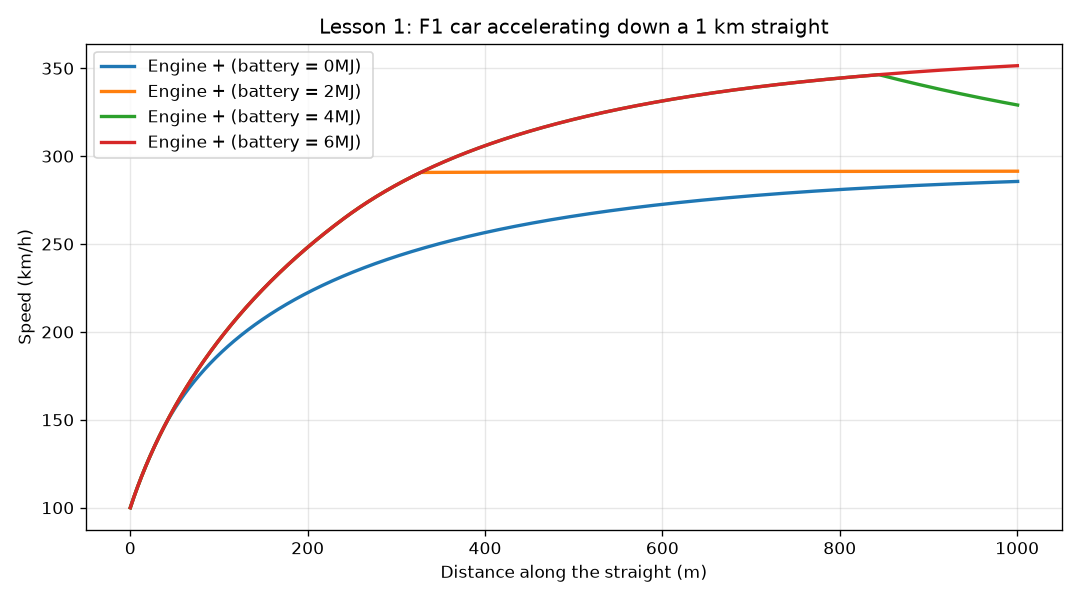
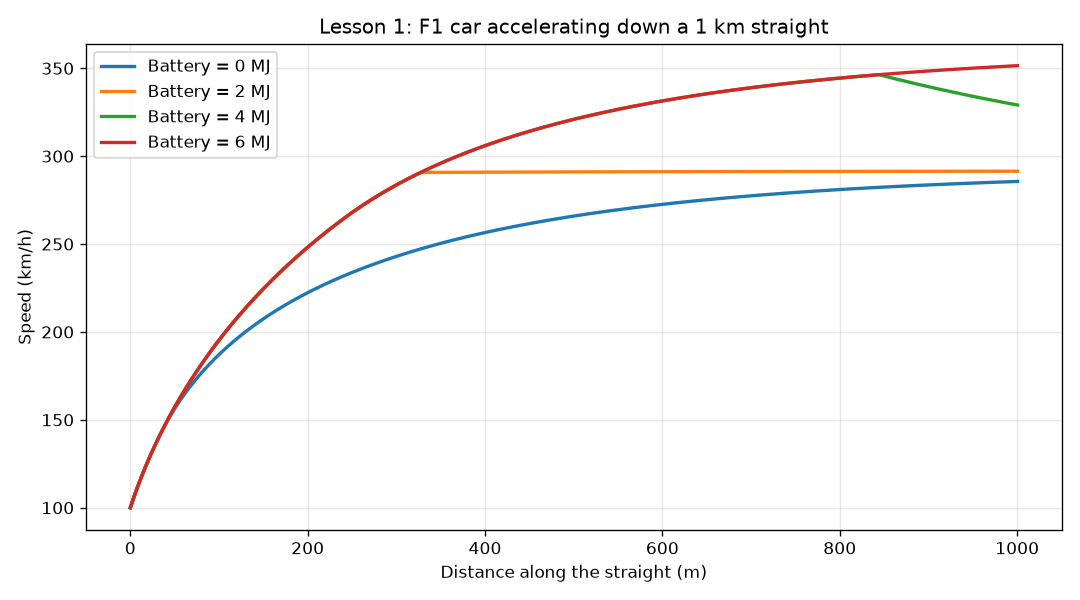
Lesson 1 complete: battery sizes, clipping detection, straight times

Changed region(s): [[0.1222, 0.06, 0.3361, 0.27]]

diff --git a/lesson1_straight_line.py b/lesson1_straight_line.py
@@ -94,9 +94,22 @@ def simulate_straight(Power_Ice, Power_MGUK, BAT_CAP):
 plt.figure(figsize=(9, 5))
 for caps in BATTERY_CAPACITY:
     dist_MJ, speed_MJ, energy_MJ, time_MJ = simulate_straight(P_ICE, P_MGUK, caps)
-    mj = caps/1_000_000
-    print(f"Full Power {mj:.0f}MJ  (ICE + MGU-K): end-of-straight speed = {speed_MJ[-1]:.0f} km/h")
-    plt.plot(dist_MJ, speed_MJ, label=f"Engine + (battery = {mj:.0f}MJ) ", linewidth=2)
+    mj = caps / 1_000_000
+
+    found = None
+    for i in range(len(energy_MJ)):
+        if energy_MJ[i] == 0:
+            found = i
+            break
+
+    if found is None:
+        empty = "battery never emptied"
+    else:
+        empty = f"battery empty at {time_MJ[found]:.2f} s ({dist_MJ[found]:.0f} m)"
+
+    print(f"Battery = {mj:.0f} MJ: {speed_MJ[-1]:.0f} km/h, "
+          f"straight took {time_MJ[-1]:.2f} s, {empty}")
+    plt.plot(dist_MJ, speed_MJ, label=f"Battery = {mj:.0f} MJ", linewidth=2)
 plt.xlabel("Distance along the straight (m)")
 plt.ylabel("Speed (km/h)")
 plt.title("Lesson 1: F1 car accelerating down a 1 km straight")
@@ -106,12 +119,8 @@ plt.tight_layout()
 plt.savefig("lesson1_speed_trace.png", dpi=120)
 plt.show()
 
-'''for i in range(len(energy_0MJ)):
-    if energy_0MJ[i] == 0:
-        store_index = i
-        break
-print(f"Battery empty at {time_0MJ[store_index]:.2f}s, {dist_0MJ[store_index]:.2f}m")
-             # engine only'''
+
+
 
 
 #print(f"Engine only (ICE)        : end-of-straight speed = {speed_ice[-1]:.0f} km/h")
